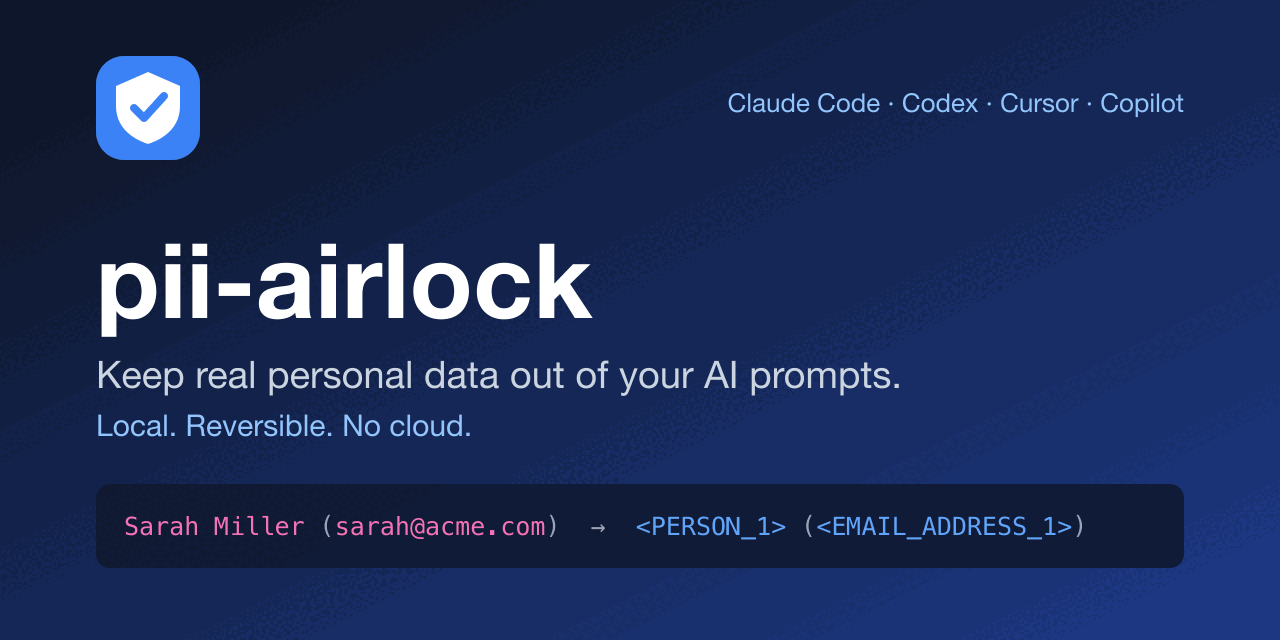
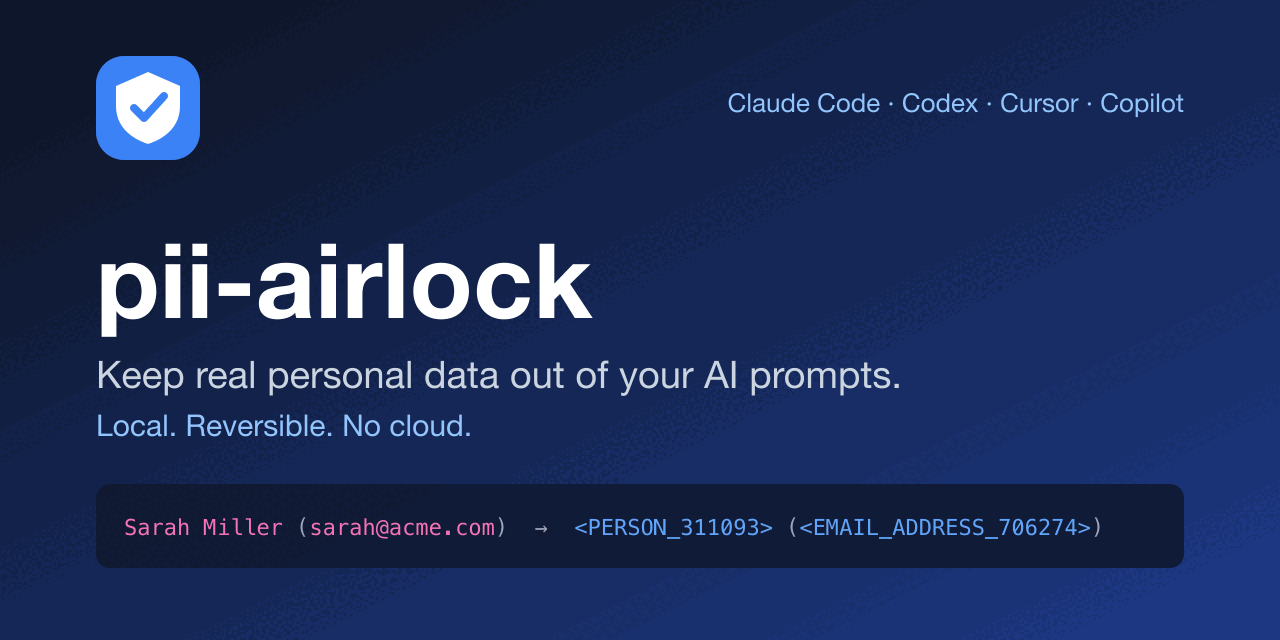
Regenerate demo visuals from 0.7.0 output (stable tokens, not 0.2.3-style)

Changed region(s): [[0.0938, 0.7812, 0.875, 0.8438]]

diff --git a/scripts/make_visuals.py b/scripts/make_visuals.py
@@ -2,7 +2,8 @@
 """Render the README demo GIF and the social/og image.
 
 Needs ``rsvg-convert`` (librsvg) and ``magick`` (ImageMagick) on PATH; nothing from PyPI.
-The terminal text below is real ``pii-airlock`` output (v0.7.0), pasted in, not invented.
+The terminal text below is real ``pii-airlock`` 0.7.0 output, pasted in, not invented.
+Run the CLI from this repo (an older pipx install prints ``<PERSON_1>``-style tokens).
 
     python3 scripts/make_visuals.py            # writes docs/public/demo.gif and og.png
 """
@@ -50,8 +51,8 @@ SCRIPT: list[tuple[Line, bool, int]] = [  # (line, typed, pause_ms_after)
     ([("Wrote safe.txt", DIM)], False, 0),
     ([("Mapping (2 entries) saved to prompt.pii-map.json", DIM)], False, 500),
     (prompt("cat safe.txt"), True, 250),
-    ([("Draft a reply to ", FG), ("<PERSON_1>", BLUE), (" (", FG),
-      ("<EMAIL_ADDRESS_1>", BLUE), (") about invoice 4471.", FG)], False, 1500),
+    ([("Draft a reply to ", FG), ("<PERSON_311093>", BLUE), (" (", FG),
+      ("<EMAIL_ADDRESS_706274>", BLUE), (") about invoice 4471.", FG)], False, 1500),
     ([], False, 0),
     ([("# 3. the answer comes back with tokens; restore the originals", DIM)], False, 500),
     (prompt("pii-airlock restore reply.txt --map prompt.pii-map.json"), True, 350),
@@ -155,7 +156,7 @@ def og_svg() -> str:
 <text x="96" y="388" font-family="{SANS}" font-size="38" fill="#cbd5e1">Keep real personal data out of your AI prompts.</text>
 <text x="96" y="436" font-family="{SANS}" font-size="30" fill="#93c5fd">Local. Reversible. No cloud.</text>
 <rect x="96" y="484" width="1088" height="84" rx="14" fill="#0f172a" opacity="0.85"/>
-<text x="124" y="535" font-family="{MONO}" font-size="25" xml:space="preserve"><tspan fill="#f472b6">Sarah Miller</tspan><tspan fill="#94a3b8"> (</tspan><tspan fill="#f472b6">sarah@acme.com</tspan><tspan fill="#94a3b8">)  &#8594;  </tspan><tspan fill="#60a5fa">&lt;PERSON_1&gt;</tspan><tspan fill="#94a3b8"> (</tspan><tspan fill="#60a5fa">&lt;EMAIL_ADDRESS_1&gt;</tspan><tspan fill="#94a3b8">)</tspan></text>
+<text x="124" y="535" font-family="{MONO}" font-size="22" xml:space="preserve"><tspan fill="#f472b6">Sarah Miller</tspan><tspan fill="#94a3b8"> (</tspan><tspan fill="#f472b6">sarah@acme.com</tspan><tspan fill="#94a3b8">)  &#8594;  </tspan><tspan fill="#60a5fa">&lt;PERSON_311093&gt;</tspan><tspan fill="#94a3b8"> (</tspan><tspan fill="#60a5fa">&lt;EMAIL_ADDRESS_706274&gt;</tspan><tspan fill="#94a3b8">)</tspan></text>
 <text x="1184" y="112" text-anchor="end" font-family="{SANS}" font-size="26" fill="#93c5fd">Claude Code &#183; Codex &#183; Cursor &#183; Copilot</text>
 </svg>"""
 
